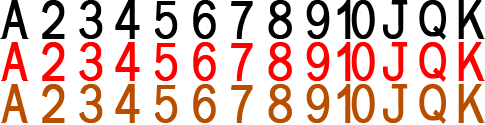
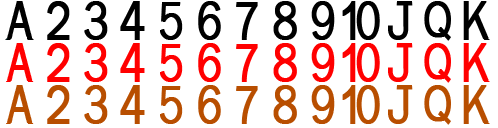
发牌排序

diff --git a/src/CardUI.js b/src/CardUI.js
@@ -1,0 +1,128 @@
+
+var CardUI = cc.Sprite.extend({
+
+	_numSprite1 	: null,
+	_numSprite2 	: null,
+	_colorSprite1	: null,
+	_colorSprite2 	: null,
+
+	_isSelected		: null,
+
+	ctor : function(cardData){
+		if(!cardData){
+			var a= 0;
+		}
+		this._super(res.card_panel);
+
+		this._init(cardData);
+
+		this._initCardUI(cardData);
+		this._initEvent();
+	},
+
+	_init : function(cardData){
+		this.setTag(cardData.soleID);
+		this._isSelected = false;
+	},
+
+	_setColor : function(value){
+		this.setColor(cc.color(value,value,value));
+		
+		if(this._numSprite1){
+			this._numSprite1.setColor(cc.color(value,value,value));
+		}
+		if(this._numSprite2){
+			this._numSprite2.setColor(cc.color(value,value,value));
+		}
+		if(this._colorSprite1){
+			this._colorSprite1.setColor(cc.color(value,value,value));
+		}
+		if(this._colorSprite2){
+			this._colorSprite2.setColor(cc.color(value,value,value));
+		}
+	},
+
+	_initCardUI : function(card){
+		var size = this.getContentSize();
+
+		var cardRect = CardUtil.getCardRect(card.color,card.numID)
+		var cardFileName = CardUtil.getCardFileName(card.color);
+		var sp = new cc.Sprite(cardFileName,cardRect);
+		var sp1 = new cc.Sprite(cardFileName,cardRect);
+		sp1.setRotation(180);
+		sp1.setPosition(size.width - sp1.getContentSize().width / 2 - 3,sp1.getContentSize().height / 2 + 7);
+		sp.setAnchorPoint(0,1);
+		sp.setPosition(3,size.height - 7);
+		this.addChild(sp);
+		this.addChild(sp1);
+		this._numSprite1 = sp;
+		this._numSprite2 = sp1;
+
+		var colorUIFileName = CardUtil.getCardColorFileName(card.color);
+		if(colorUIFileName){
+			var colorUIRect = CardUtil.getCardColorRect(card.color);
+			var colorSp = new cc.Sprite(colorUIFileName,colorUIRect);
+			var colorSp1 = new cc.Sprite(colorUIFileName,colorUIRect);
+			colorSp1.setRotation(180);
+			colorSp1.setPosition(size.width - colorSp1.getContentSize().width / 2 - 3,sp1.getContentSize().height + colorSp1.getContentSize().height / 2 + 7);
+			colorSp.setAnchorPoint(0,1);
+			colorSp.setPosition(5,sp.getPositionY() - sp.getContentSize().height);
+
+			this._colorSprite1	= colorSp,
+			this._colorSprite2 	= colorSp1,
+
+			this.addChild(colorSp);
+			this.addChild(colorSp1);
+		}
+	},
+
+	_initEvent : function(){
+		var _this = this;
+
+		var listener = cc.EventListener.create({
+			event : cc.EventListener.TOUCH_ONE_BY_ONE,
+			swallowTouches : true,
+			onTouchBegan : function(touch,event){
+				var target = event.getCurrentTarget();
+				var locationInNode = target.convertToNodeSpace(touch.getLocation());
+				var s = target.getContentSize();
+				var rect = cc.rect(0,0,s.width,s.height);
+				if(cc.rectContainsPoint(rect,locationInNode)){
+					console.log("点击牌");
+
+					_this._setColor(50);
+
+					return true;
+				}
+				return false;
+			},
+			onTouchMoved : function(touch,event){
+
+			},
+			onTouchEnded : function(touch,event){
+				_this._setColor(255);
+				if(_this._isSelected){
+					_this._unselectCard();
+				}else{
+					_this._selectCard();
+				}
+			}
+		});
+
+		cc.eventManager.addListener(listener,this);
+	},
+
+	_selectCard : function(){
+		this._isSelected = true;
+
+		this.runAction(cc.moveBy(0.1,0,30));
+		// this.setPositionY(this.getPositionY() + 30);
+	},
+
+	_unselectCard : function(){
+		this._isSelected = false;
+
+		this.runAction(cc.moveBy(0.1,0,-30));
+		// this.setPositionY(this.getPositionY() - 30);
+	}
+});

diff --git a/src/GameLayer.js b/src/GameLayer.js
@@ -20,73 +20,70 @@ var GameLayer = cc.Layer.extend({
 	},
 
 	_initPlayerUI : function(){
-		_mainPlayer 	= new Player(res.Player_png);
-		_leftPlayer 	= new Player(res.Player_png);
-		_rightPlayer 	= new Player(res.Player_png);
+		this._mainPlayer 	= new Player(res.Player_png);
+		this._leftPlayer 	= new Player(res.Player_png);
+		this._rightPlayer 	= new Player(res.Player_png);
 
         var size = cc.winSize;
 
-		_mainPlayer.setPosition(size.width * 0.08,size.height * 0.14);
-		_leftPlayer.setPosition(size.width * 0.03,size.height * 0.61);
-		_rightPlayer.setPosition(size.width * 0.94,size.height * 0.61);
+		this._mainPlayer.setPosition(size.width * 0.08,size.height * 0.14);
+		this._leftPlayer.setPosition(size.width * 0.03,size.height * 0.61);
+		this._rightPlayer.setPosition(size.width * 0.94,size.height * 0.61);
 
-		this.addChild(_mainPlayer);
-		this.addChild(_leftPlayer);
-		this.addChild(_rightPlayer);
+		this.addChild(this._mainPlayer);
+		this.addChild(this._leftPlayer);
+		this.addChild(this._rightPlayer);
 	},	
 
 	//发牌
 	_deal : function(){
 		var _this = this;
 
-		var cards = this._cardMgr.createCards();
-		this._cardMgr.shuffle(cards);
+		this._cardMgr.createCards();
+		this._cardMgr.shuffle();
+
 		var index = 0;
-		var count = 0;
+
+		for(var i = 0; i < CardDef.CardNum - 3; i += 3){
+			var cardid = _this._cardMgr.getSoleIDByIndex(i);
+			_this._mainPlayer.deal(cardid);
+			var cardid = _this._cardMgr.getSoleIDByIndex(i + 1);
+			_this._leftPlayer.deal(cardid);
+			var cardid = _this._cardMgr.getSoleIDByIndex(i + 2);
+			_this._rightPlayer.deal(cardid);
+		}
+
+		this._cardMgr.sort(this._mainPlayer.getCardList());
+		this._cardMgr.sort(this._leftPlayer.getCardList());
+		this._cardMgr.sort(this._rightPlayer.getCardList());
+
 		var dealSchedule = function(){
-			if(count >= 17){
+			if(index >= 17){
 				_this.unschedule(dealSchedule);
 				return;
 			}
-			var cardid = _this._cardMgr.getSoleIDByIndex(index ++);
-			_mainPlayer.deal(cardid);
+			var cardid = _this._mainPlayer.getCardSoleID(index ++);
 			_this._updateCardUI(cardid);
-			cardid = _this._cardMgr.getSoleIDByIndex(index ++);
-			_mainPlayer.deal(cardid);
-			cardid = _this._cardMgr.getSoleIDByIndex(index ++);
-			_mainPlayer.deal(cardid);
-			count ++;
 		};
-		this.schedule(dealSchedule,0.3);
+		_this.schedule(dealSchedule,0.05);
 	},
 
 
 	_updateCardUI : function(id){
 		var sp  = this._createCardUI(id);
-		sp.setPosition(100 + this.tempTest * 30,100);
-		sp.setAnchorPoint(0,0);
+		sp.setPosition(200 + this.tempTest * 40,100);
 		this.addChild(sp);
 
 		this.tempTest ++;
 	},
 
 	_createCardUI : function(id){
-		console.log(id);
+		// console.log(id);
 
 		var card = this._cardMgr.getCardData(id);
-		var cardRect = CardUtil.getCardRect(card.color,card.numID)
-		var cardFileName = CardUtil.getCardFileName(card.color);
-		var sp = new cc.Sprite(cardFileName,cardRect);
+		var cardui = new CardUI(card);
 
-		var colorUIRect = CardUtil.getCardColorRect(card.color);
-		var colorUIFileName = CardUtil.getCardColorFileName();
-		var colorSp = new cc.Sprite(colorUIFileName,colorUIRect);
-		colorSp.setAnchorPoint(0,0);
-		colorSp.setPosition(3,-cardRect.height * 0.7);
-
-		sp.addChild(colorSp);
-
-		return sp;
+		return cardui;
 	},
 
 	_initBg : function(){

diff --git a/src/CardManager.js b/src/CardManager.js
@@ -44,7 +44,7 @@ function CardManager(){
 		//方片
 		cards.push(new Card(CardDef.CardColor.CC_Diamonds,12,1,27));
 		cards.push(new Card(CardDef.CardColor.CC_Diamonds,13,2,28));
-		cards.push(new Card(CardDef.CardColor.CC_Diamonds,1,3,28));
+		cards.push(new Card(CardDef.CardColor.CC_Diamonds,1,3,29));
 		cards.push(new Card(CardDef.CardColor.CC_Diamonds,2,4,30));
 		cards.push(new Card(CardDef.CardColor.CC_Diamonds,3,5,31));
 		cards.push(new Card(CardDef.CardColor.CC_Diamonds,4,6,32));
@@ -80,12 +80,33 @@ function CardManager(){
 		return cards;
 	},
 
-	this.shuffle = function(cards){
-		for(var i = 0;i < CardDef.CardNum;i ++){
-			var randomNum = Util.GetRandomNum(0,CardDef.CardNum);
-			var temp = cards[randomNum];
-			cards[randomNum] = cards[i];
-			cards[i] = temp;
+	this.shuffle = function(){
+		if(this._cards){
+			for(var i = 0;i < CardDef.CardNum;i ++){
+				var randomNum = Util.GetRandomNum(0,CardDef.CardNum - 1);
+				var temp = this._cards[randomNum];
+				this._cards[randomNum] = this._cards[i];
+				this._cards[i] = temp;
+			}
+		}
+	},
+
+	this.sort = function(cards){
+		if(cards){
+			var len = cards.length;
+			for(var i = 0; i < len - 1; i ++){
+				var valuei = this.getCardValue(cards[i]);
+				for(var j = i + 1; j < len; j ++){
+					var valuej = this.getCardValue(cards[j]);
+					if(valuei < valuej){
+						var temp = cards[i];
+						cards[i] = cards[j];
+						cards[j] = temp;
+
+						valuei = this.getCardValue(cards[i]);
+					}
+				}
+			}
 		}
 	},
 

diff --git a/src/CardUtil.js b/src/CardUtil.js
@@ -3,18 +3,18 @@ var CardUtil = {
 	getCardRect : function(color,numid){
 		var rect = null;
 		if(color === CardDef.CardColor.CC_DigJoker){
-			rect = cc.Rect(0,0,29,131);
+			rect = cc.rect(0,0,29,131);
 		}else if(color === CardDef.CardColor.CC_SmallJoker){
-			rect = cc.Rect(29,0,29,131);
+			rect = cc.rect(29,0,29,131);
 		}else{
 			var line = 1;
 			var column = numid - 1;
 			if(color === CardDef.CardColor.CC_Spades || color === CardDef.CardColor.CC_Clubs){
 				line = 0;
 			}
-			var x = column * 37.3;
+			var x = column * 38.3;
 			var y = line * 41.7;
-			rect = cc.rect(x,y,37.3,41.7);
+			rect = cc.rect(x,y,38.3,41.7);
 		}
 		return rect;
 	},
@@ -31,7 +31,10 @@ var CardUtil = {
 		}
 	},
 
-	getCardColorFileName : function(){
+	getCardColorFileName : function(color){
+		if(color === CardDef.CardColor.CC_DigJoker || color === CardDef.CardColor.CC_SmallJoker){
+			return null;
+		}
 		return res.card_color;
 	},
 
@@ -42,4 +45,5 @@ var CardUtil = {
 			return res.card_number;
 		}
 	}
+
 };

diff --git a/src/Player.js b/src/Player.js
@@ -18,8 +18,16 @@ var Player = cc.Sprite.extend({
 		this._isAI = isAI;
 	},
 
+	getCardList : function(){
+		return this._cardList;
+	},
+
+	getCardSoleID : function(index){
+		return this._cardList[index];
+	},
+
 	deal : function(id){
-		if(id <= 1 && id <= 54){
+		if(id >= 1 && id <= 54){
 			this._cardList.push(id);
 		}
 	}

diff --git a/src/resource.js b/src/resource.js
@@ -4,6 +4,7 @@ var res = {
     Bg_png : "res/Common_BG9_2x.png",
     card_number : "res/card_number.png",
     card_color : "res/card_color.png",
+    card_panel : "res/card_panel.png",
     card_wang : "res/card_wang.png"
 };
 

diff --git a/src/CardDefine.js b/src/CardDefine.js
@@ -1,7 +1,7 @@
 
 var CardDef = {};
 
-CardDef.CardNum = 45;
+CardDef.CardNum = 54;
 
 CardDef.CardColor = {
 	CC_Hearts 		: 0,	//红桃
